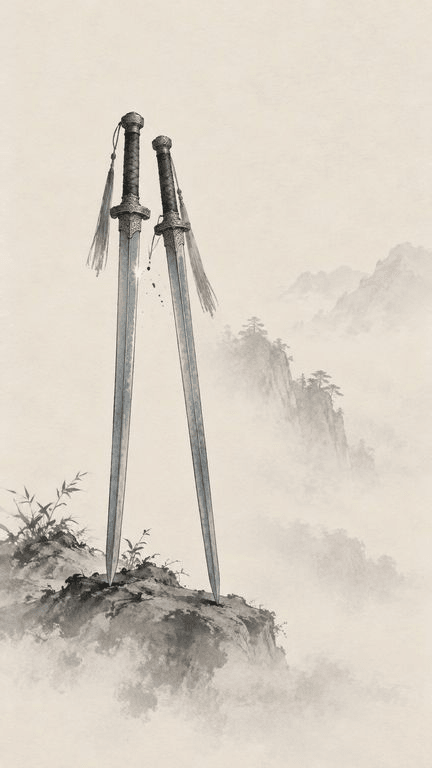
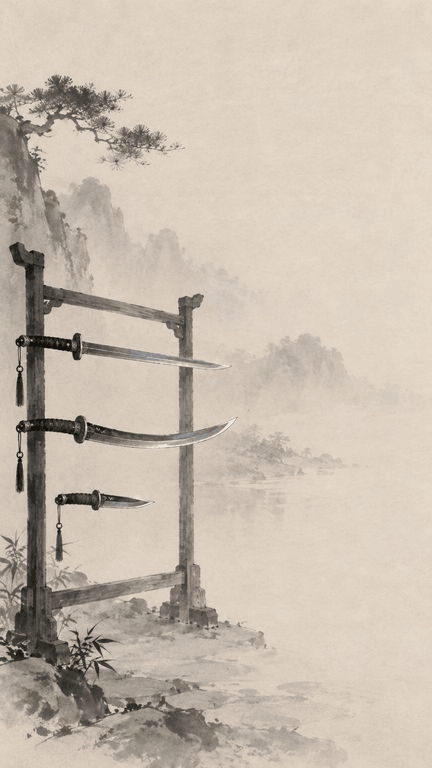
Ink strips: the Blade's five repainted with a different edged object and composition in each (owner 2026-11-13, 1 A 2 A 3 A); v1 masters retired
Claude-Session: https://claude.ai/code/session_01KJDZ1kMntpuhi1pR192vYL

diff --git a/Design/Library/Design_Pass_2026-10/Ink_Painting_System.md b/Design/Library/Design_Pass_2026-10/Ink_Painting_System.md
@@ -195,7 +195,7 @@ The images in these pages are embedded JPEGs, so each file is self-contained.
 
 ## 7 · The queue (in order)
 
-1. **Strips, per stem.** Test 辛 the Jewel (five strips), then batch the other eight stems (40). Keep 庚. *2026-11-05: the 辛 test set is painted from the current T-STRIP (masters `strip_xin_*.jpg`, app copies built), not yet shown or approved. Owner 2026-11-05: pause; iterate on the Blade's template first. No batch has run.* *2026-11-06: the owner asked for the full revelation journey of the Blade, the Jewel, the Oak and the Vine for review; the 甲 and 乙 sets (ten) are painted from the current T-STRIP and built; their subjects and the 辛 subjects are now in the JSON. The four are shown in `09_four-stems-revelation.html`; none of the three new sets is approved yet.*
+1. **Strips, per stem.** Test 辛 the Jewel (five strips), then batch the other eight stems (40). Keep 庚. *2026-11-05: the 辛 test set is painted from the current T-STRIP (masters `strip_xin_*.jpg`, app copies built), not yet shown or approved. Owner 2026-11-05: pause; iterate on the Blade's template first. No batch has run.* *2026-11-06: the owner asked for the full revelation journey of the Blade, the Jewel, the Oak and the Vine for review; the 甲 and 乙 sets (ten) are painted from the current T-STRIP and built; their subjects and the 辛 subjects are now in the JSON. The four are shown in `09_four-stems-revelation.html`; none of the three new sets is approved yet.* *2026-11-13, owner: make the core element of each image distinct so the set shows variety ("the blade doesn't have to be a sword all the time, it can be knives, axes cutting woods"); ruled 1 A, 2 A, 3 A: vary the object within the archetype's family across the five strips only, test on the Blade first. The Blade's five are repainted (rack of three blades, spearhead in ore, cleaver on the anvil, axe in the log, knife on the whetstone); v1 masters kept in `Design/Assets/Pairs/retired/`. Awaiting approval before the Jewel, Oak and Vine follow.*
 2. **Pairs 3:2, minimal, per stem.** Test 庚 (five), then batch 45. The current `pair_geng_*` are the older F2 style.
 3. **Energy heroes.** Test Metal yang and yin, then batch 8.
 4. **D-geng-3 repaint.** The branch must bow against the blade's edge.
